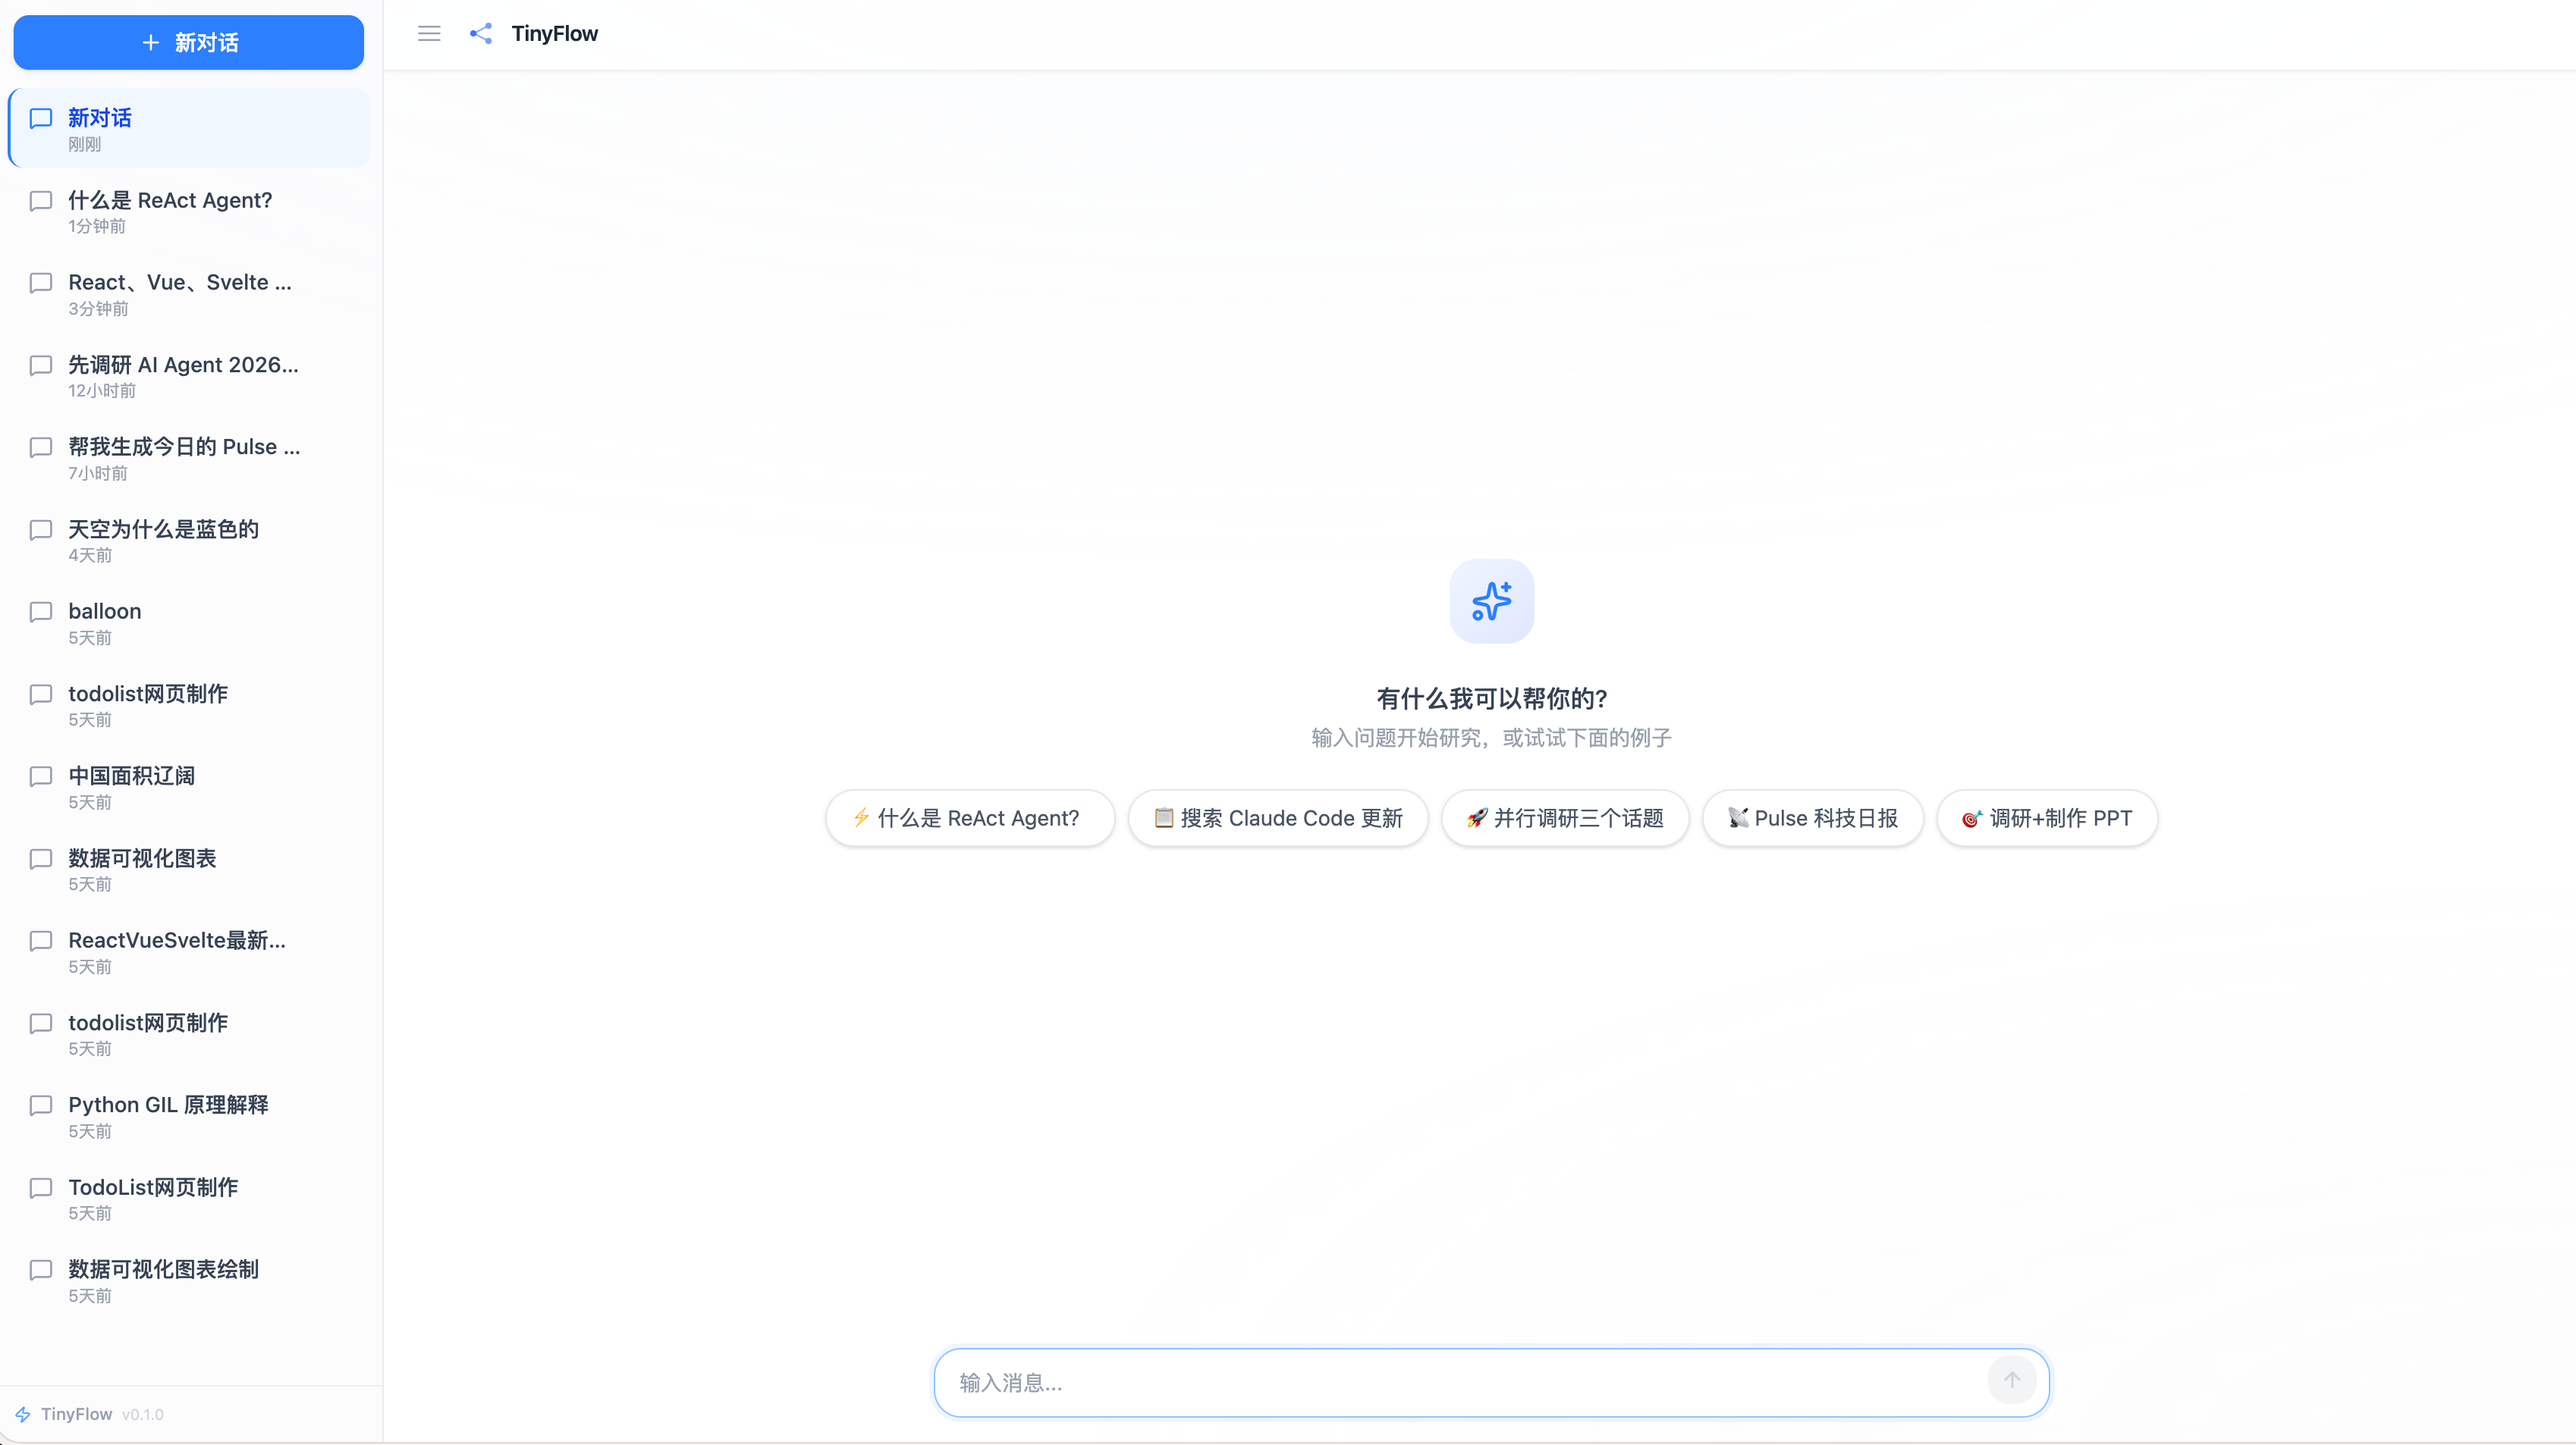
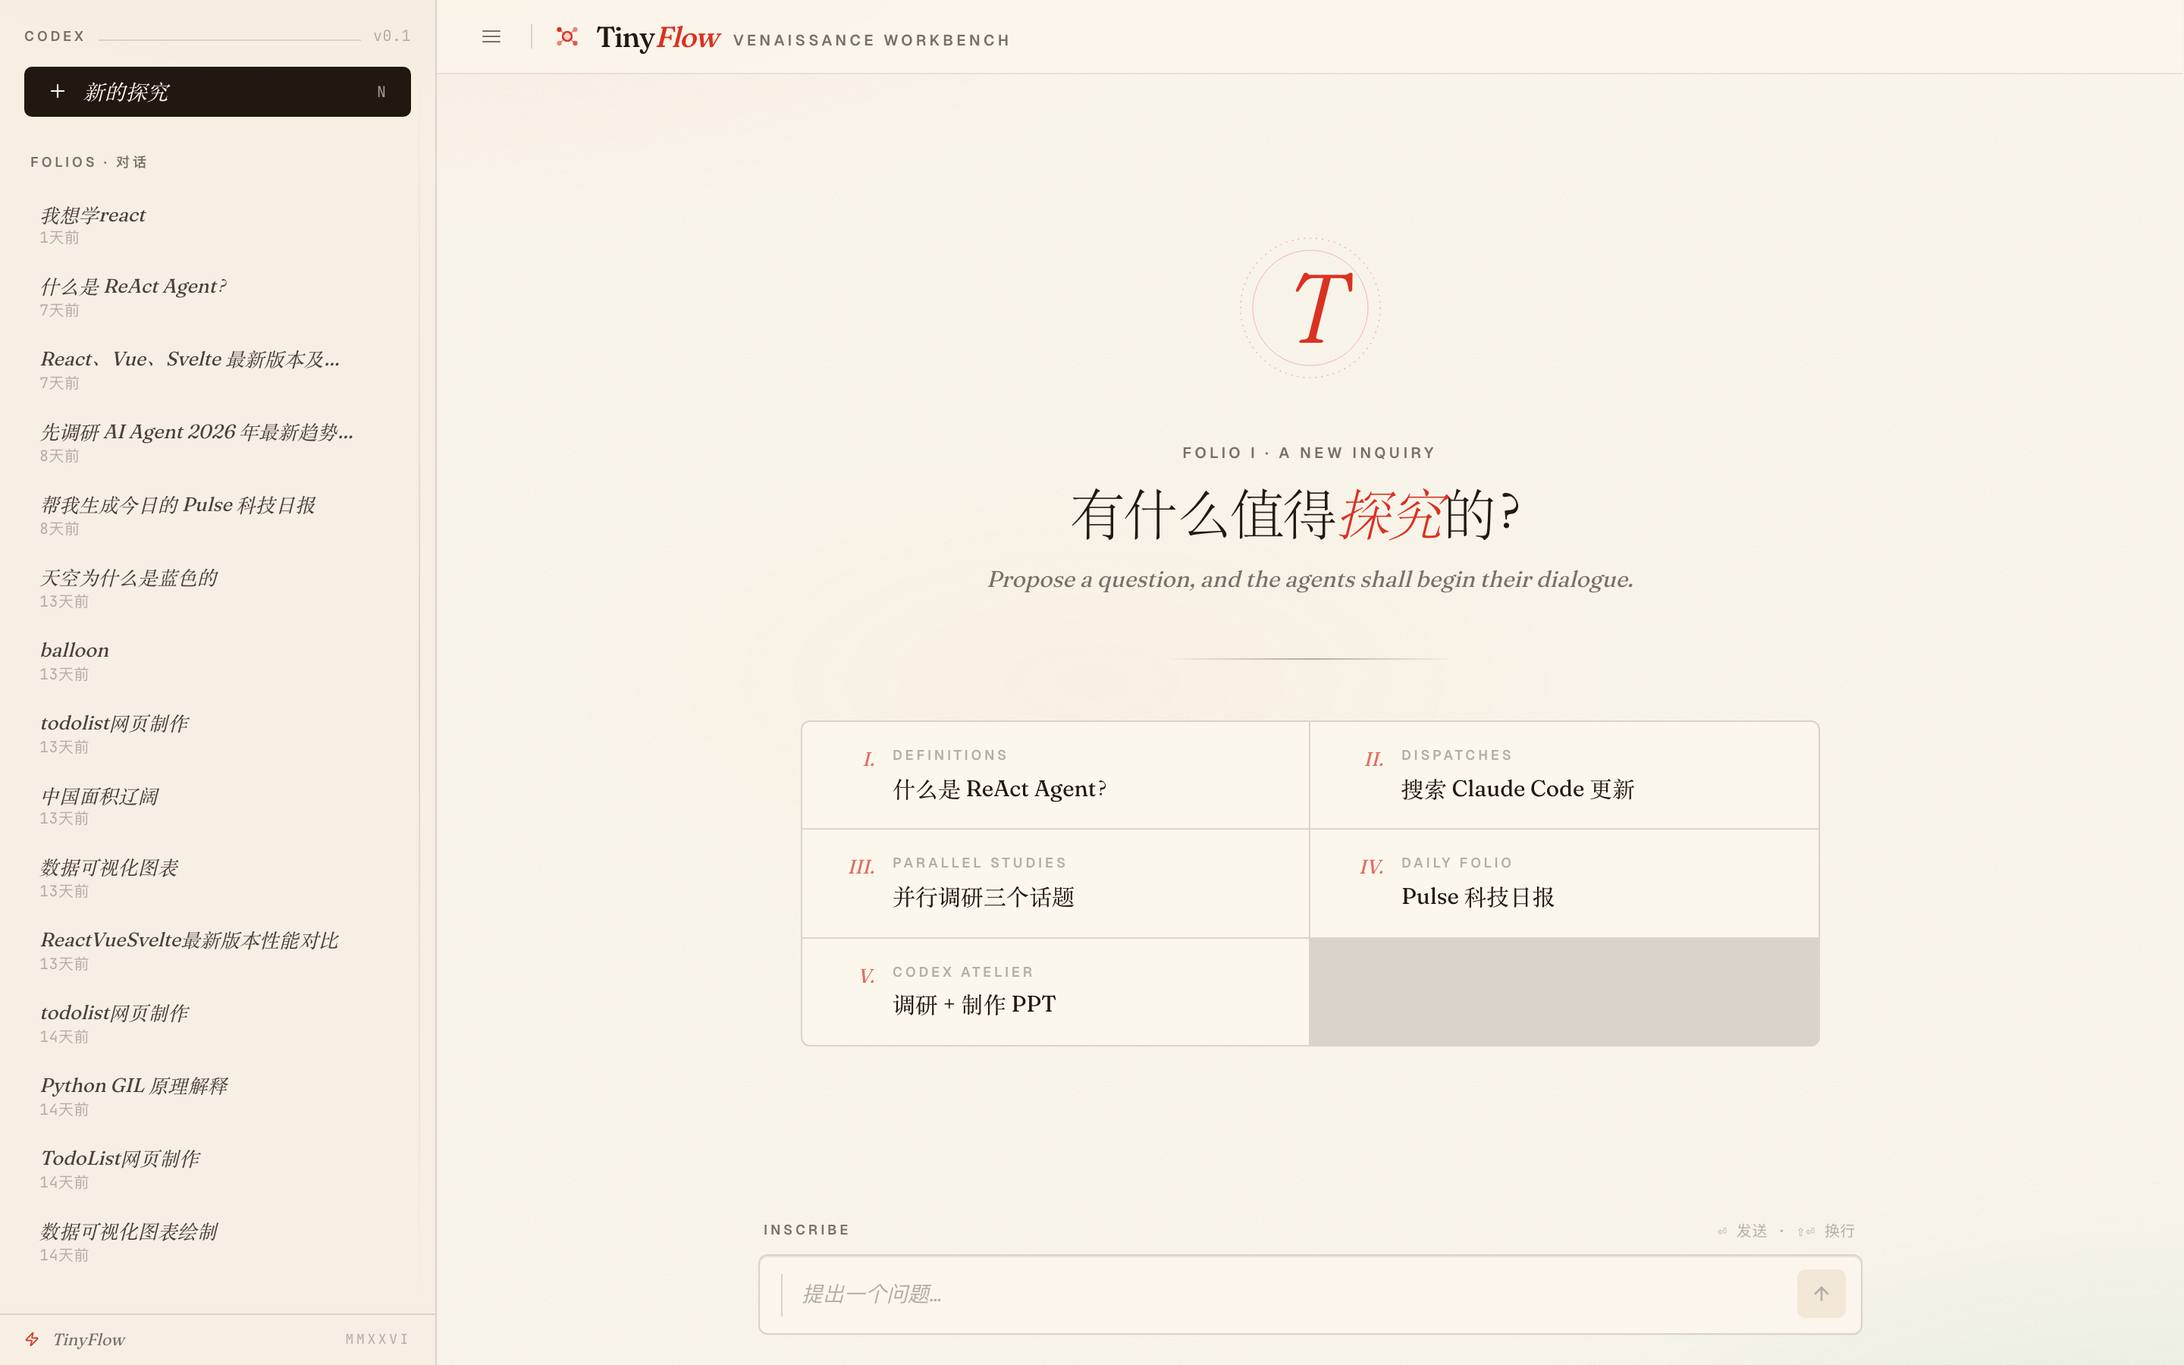
docs: refresh hero screenshot for Venaissance Scholar redesign
- docs/assets/homepage.png: new hero captured at 1440x900 @2x DPR,
  showing illuminated-initial empty state with Folio I catalog.
- backend/tests/test_browser_e2e.py: update selectors to match the
  new placeholder ("提出一个问题…") and new-thread label ("新的探究").

diff --git a/backend/tests/test_browser_e2e.py b/backend/tests/test_browser_e2e.py
@@ -126,7 +126,7 @@ def setup_mocks(page: Page, chat_fixture: str | None = None):
 
 def send_message(page: Page, text: str):
     """Type into the input box and press Enter to send."""
-    textarea = page.locator('textarea[placeholder="输入消息..."]')
+    textarea = page.locator('textarea[placeholder="提出一个问题…"]')
     textarea.fill(text)
     textarea.press("Enter")
 
@@ -148,14 +148,14 @@ class TestPageLoad:
     def test_new_chat_button(self, page: Page):
         """Test 2: '新对话' button appears in sidebar."""
         setup_mocks(page)
-        btn = page.locator("button", has_text="新对话").first
+        btn = page.locator("button", has_text="新的探究").first
         expect(btn).to_be_visible(timeout=10_000)
         page.screenshot(path="/tmp/tinyflow-e2e-new-chat.png")
 
     def test_input_box(self, page: Page):
         """Test 3: Textarea input is visible and focusable."""
         setup_mocks(page)
-        textarea = page.locator('textarea[placeholder="输入消息..."]')
+        textarea = page.locator('textarea[placeholder="提出一个问题…"]')
         expect(textarea).to_be_visible(timeout=10_000)
         page.screenshot(path="/tmp/tinyflow-e2e-input.png")
 
